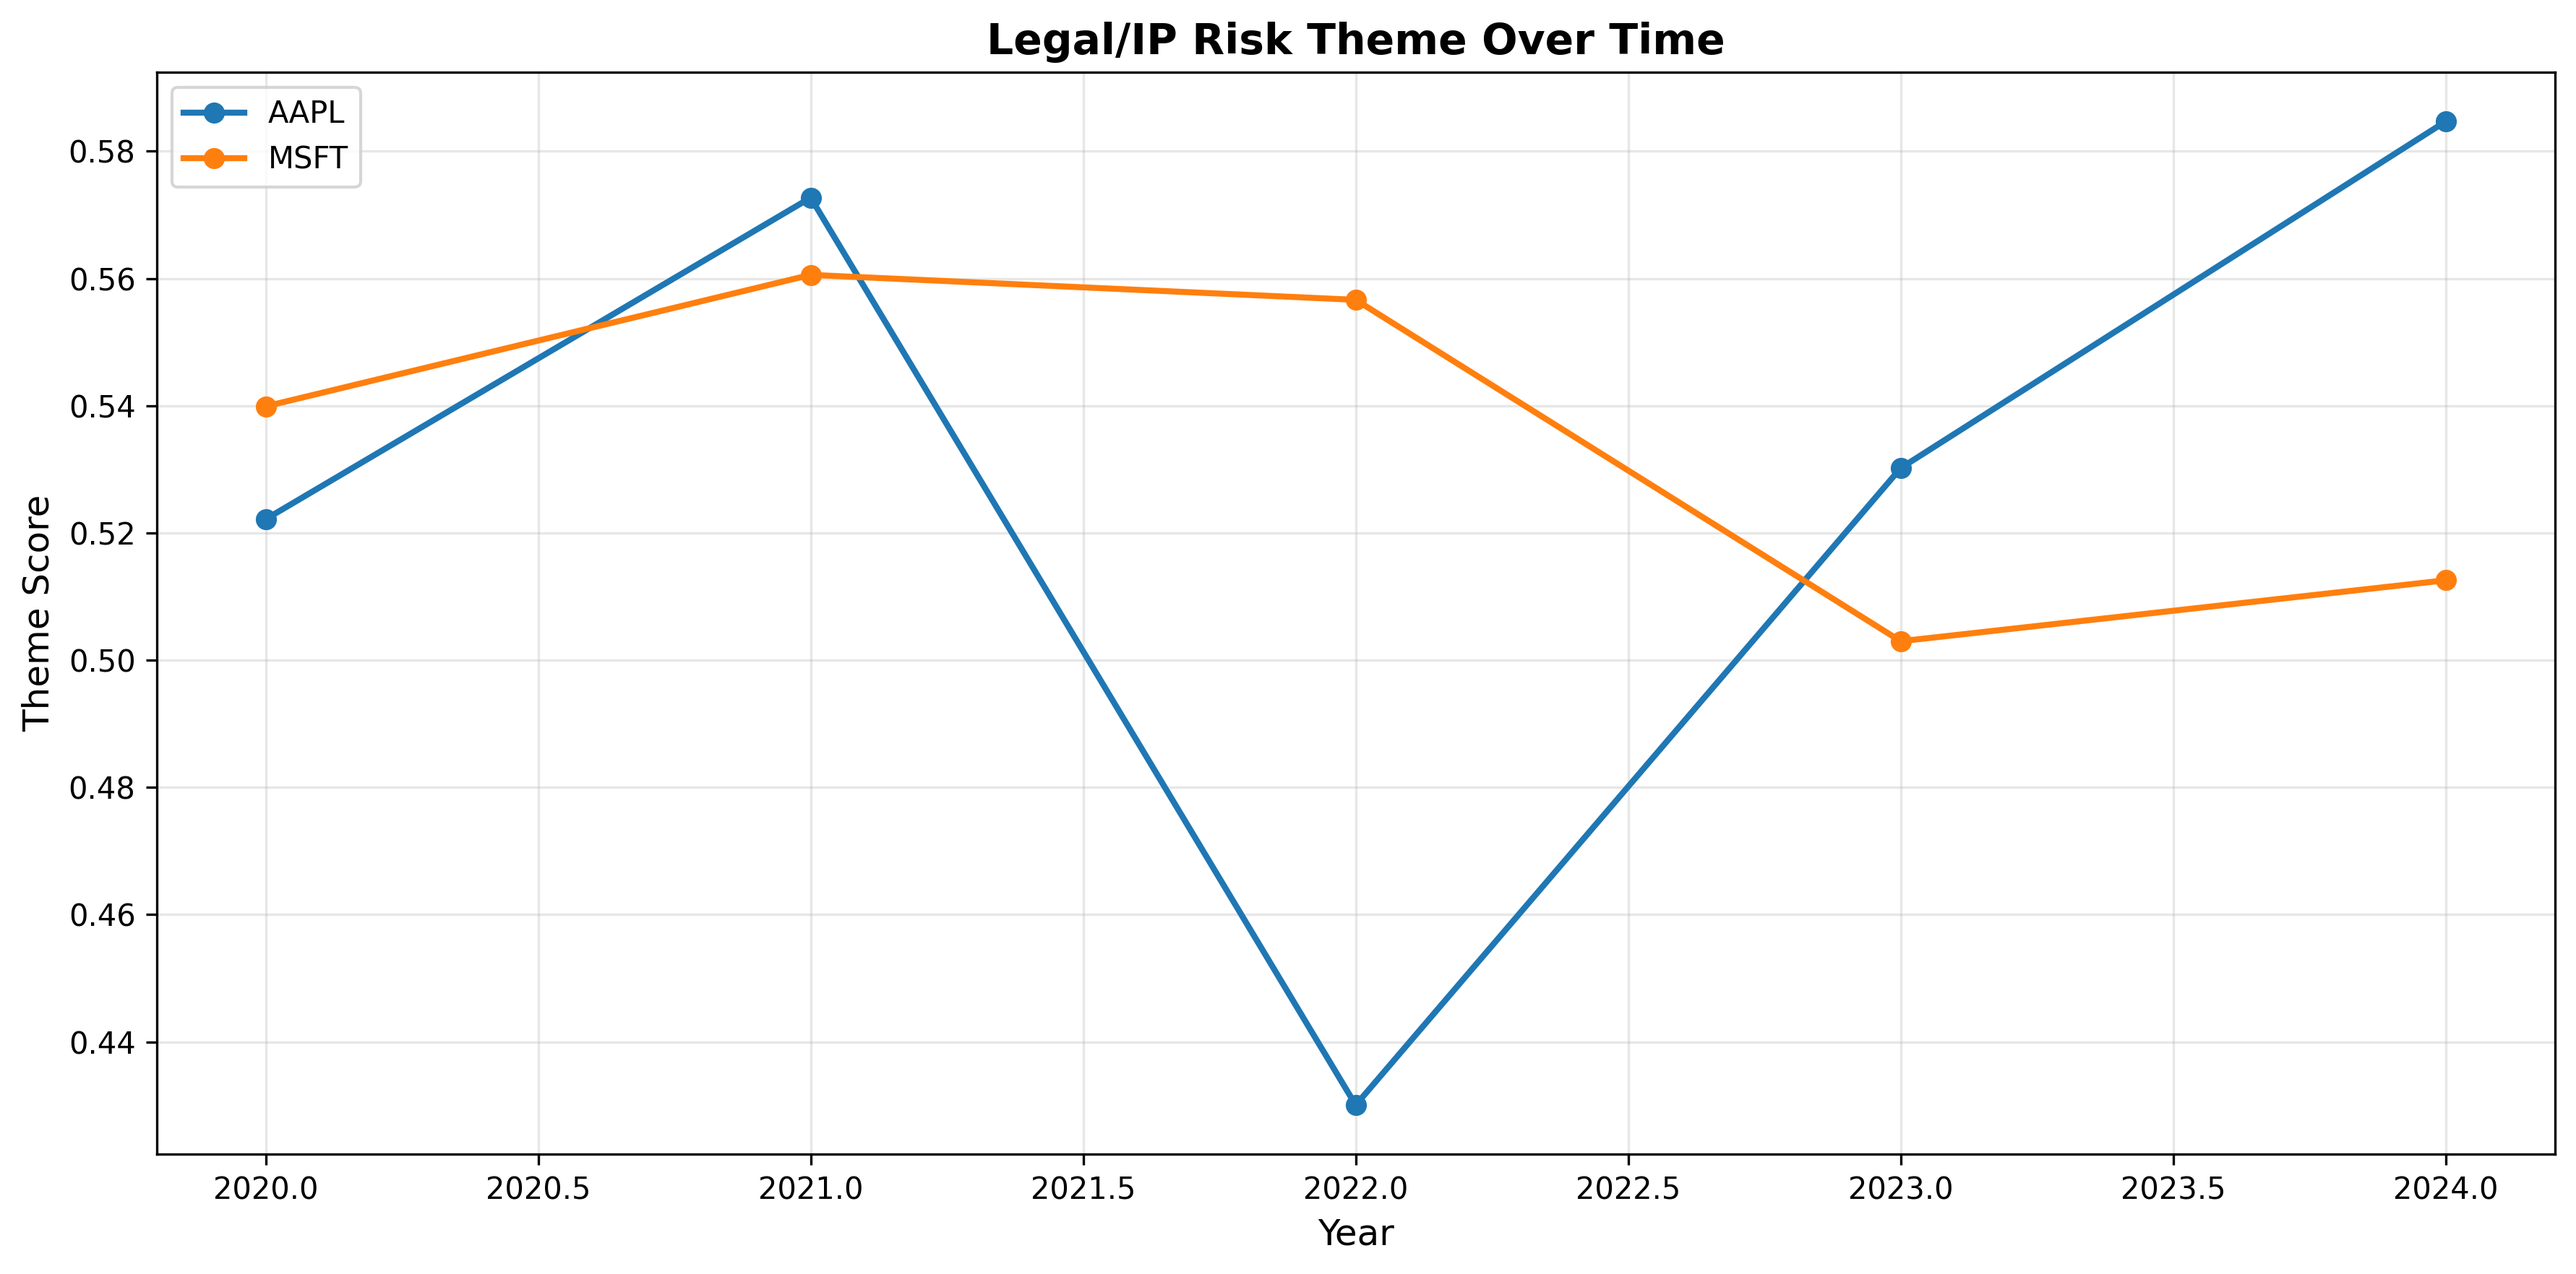
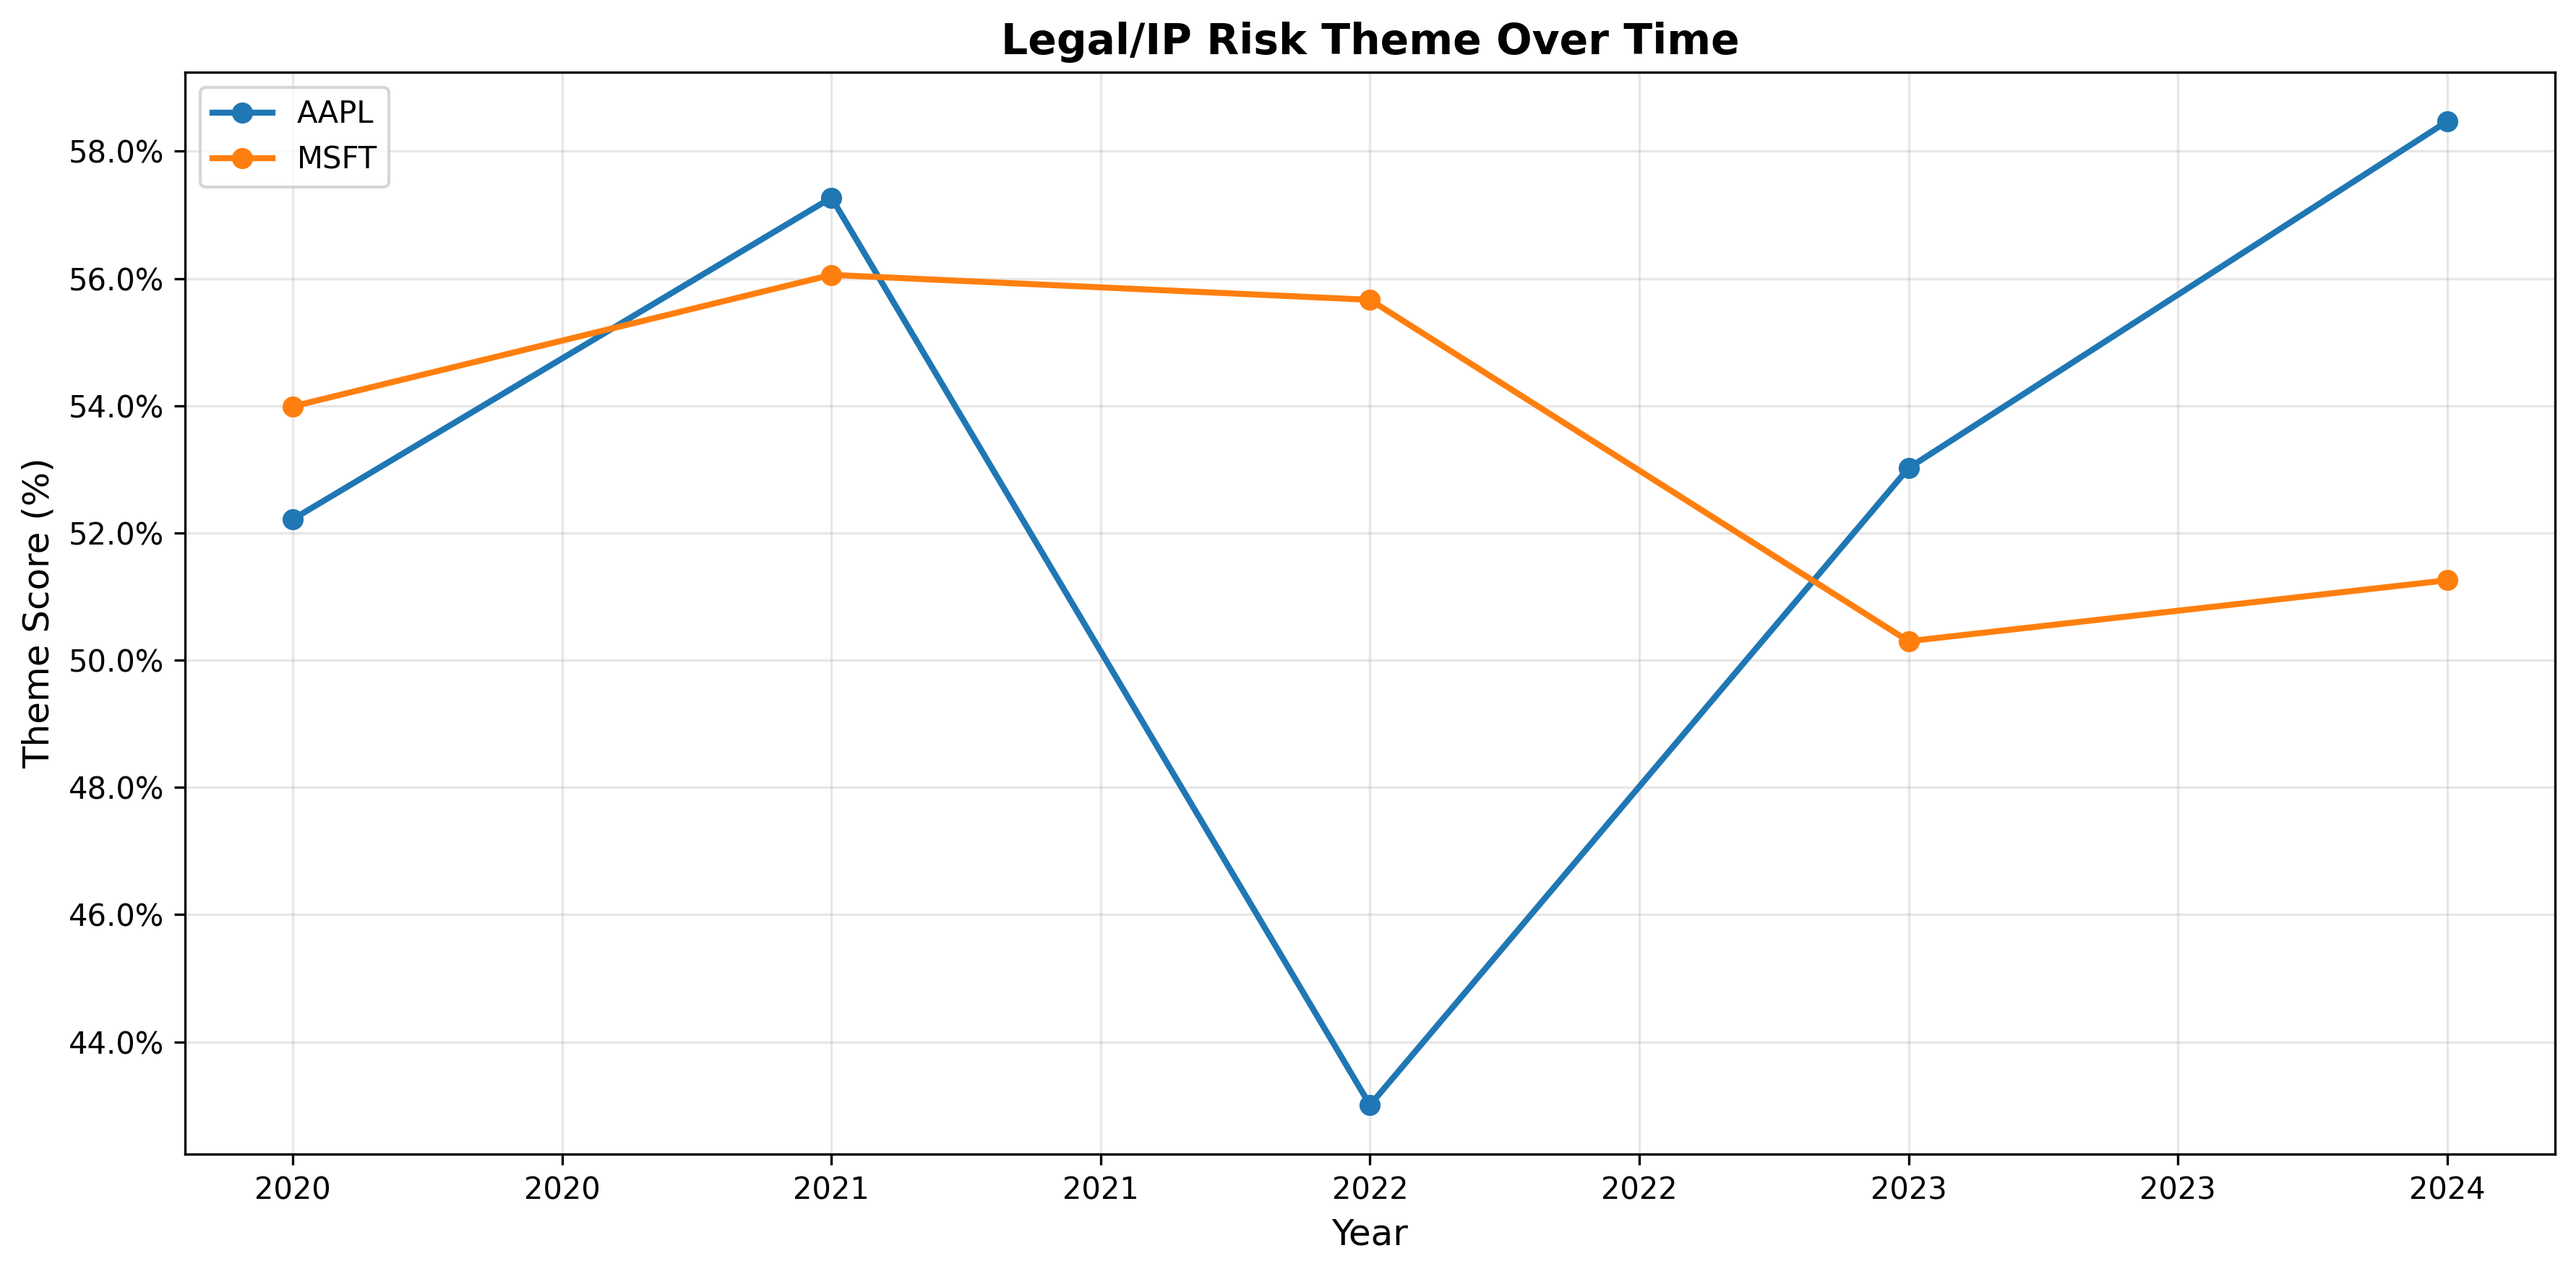
changed axis's

diff --git a/sec_rag/analytics.py b/sec_rag/analytics.py
@@ -39,10 +39,19 @@ def plot_theme_timeline(
     
     for ticker in theme_df["ticker"].unique():
         ticker_data = theme_df[theme_df["ticker"] == ticker].sort_values("year")
-        plt.plot(ticker_data["year"], ticker_data["score"], marker="o", label=ticker, linewidth=2)
+        # Convert scores to percentages
+        scores_pct = ticker_data["score"] * 100
+        plt.plot(ticker_data["year"], scores_pct, marker="o", label=ticker, linewidth=2)
+    
+    # Format x-axis as integers (no decimals)
+    ax = plt.gca()
+    ax.xaxis.set_major_formatter(plt.FuncFormatter(lambda x, p: f'{int(x)}'))
+    
+    # Format y-axis as percentages
+    ax.yaxis.set_major_formatter(plt.FuncFormatter(lambda y, p: f'{y:.1f}%'))
     
     plt.xlabel("Year", fontsize=12)
-    plt.ylabel("Theme Score", fontsize=12)
+    plt.ylabel("Theme Score (%)", fontsize=12)
     plt.title(f"{theme} Risk Theme Over Time", fontsize=14, fontweight="bold")
     plt.legend()
     plt.grid(True, alpha=0.3)
